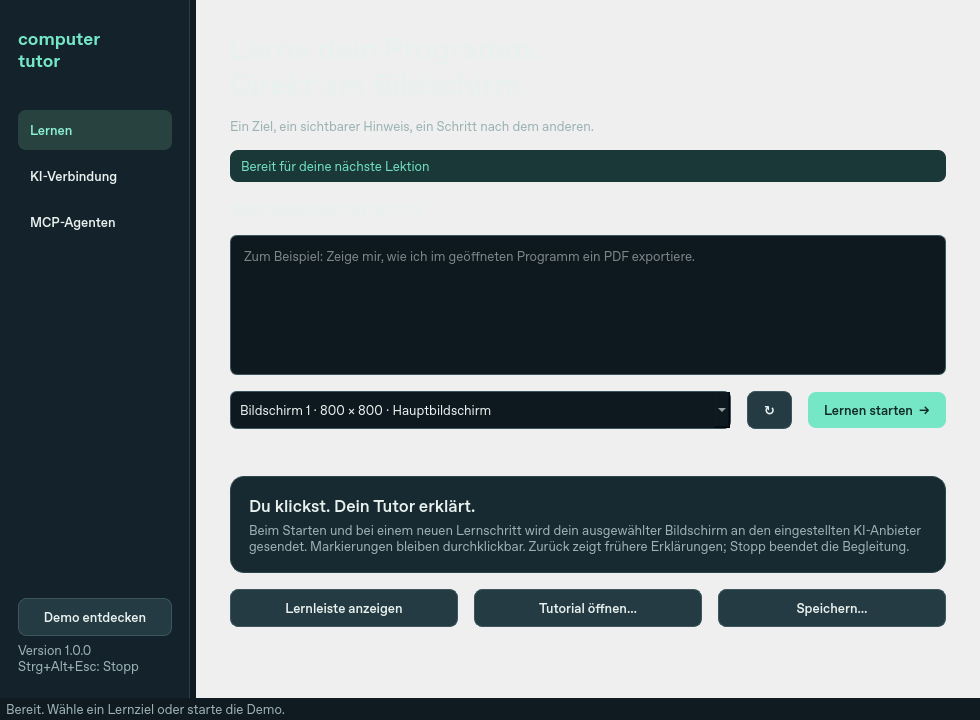
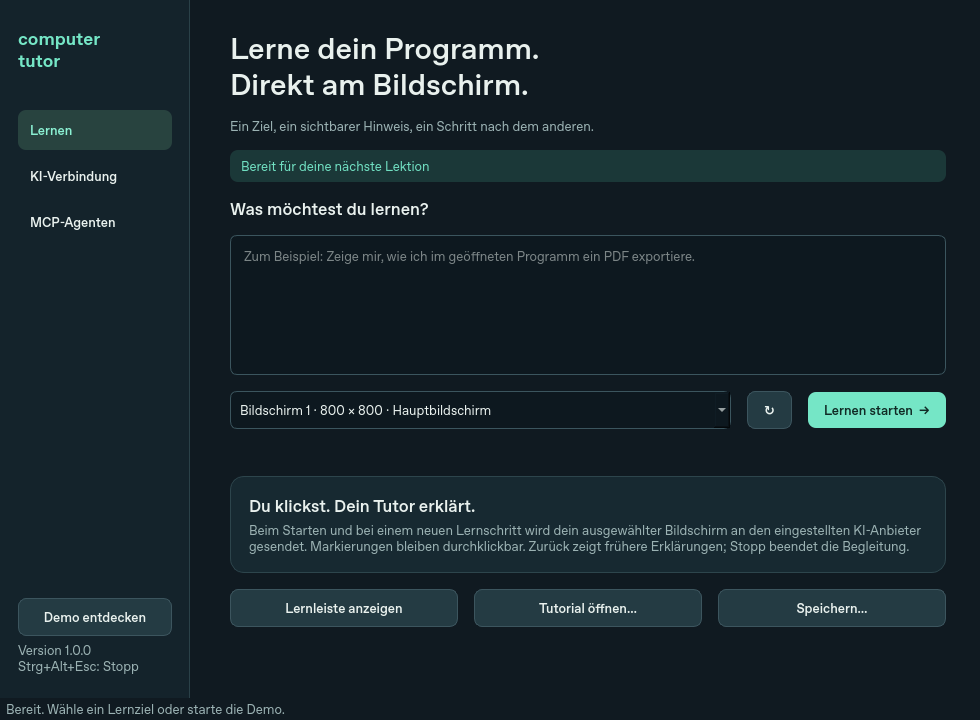
Keep scrollable application pages readable in the dark theme

diff --git a/src/computer_tutor/home.py b/src/computer_tutor/home.py
@@ -69,6 +69,7 @@ class HomeWindow(QMainWindow):
         navigation.addWidget(label("computer\ntutor", "brand"))
         navigation.addSpacing(32)
         self.pages = QStackedWidget()
+        self.pages.setStyleSheet("QStackedWidget { background: #101a21; }")
         group = QButtonGroup(self)
         self.nav_buttons = []
         for index, title in enumerate(["Lernen", "KI-Verbindung", "MCP-Agenten"]):
@@ -99,6 +100,8 @@ class HomeWindow(QMainWindow):
 
     def page(self, title, subtitle):
         page = QWidget()
+        page.setObjectName("page")
+        page.setAttribute(Qt.WidgetAttribute.WA_StyledBackground)
         layout = QVBoxLayout(page)
         layout.setContentsMargins(34, 30, 34, 28)
         layout.setSpacing(16)

diff --git a/src/computer_tutor/theme.py b/src/computer_tutor/theme.py
@@ -4,6 +4,7 @@ from PySide6.QtGui import QColor, QFont, QIcon, QPainter, QPixmap
 STYLE = """
 QWidget { font-family: 'Segoe UI'; font-size: 13px; color: #e9f1ee; }
 QMainWindow, QDialog { background: #101a21; }
+QWidget#page { background: #101a21; }
 QWidget#sidebar { background: #14232b; border-right: 1px solid #2a4148; }
 QLabel#brand { color: #75e6c6; font-weight: 700; font-size: 18px; }
 QLabel#hero { font-size: 30px; font-weight: 600; }
